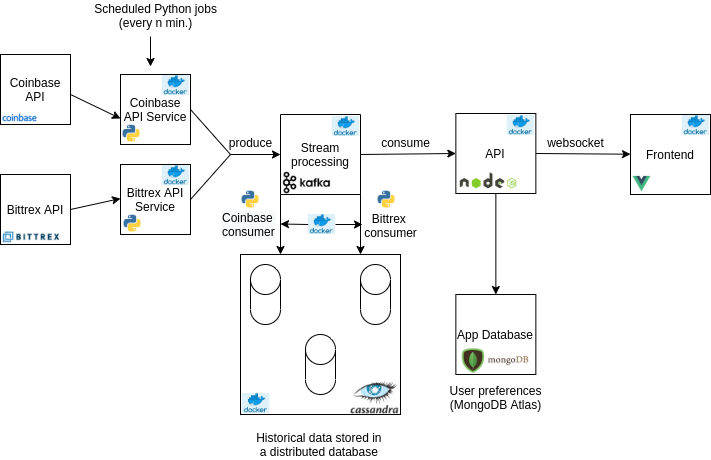
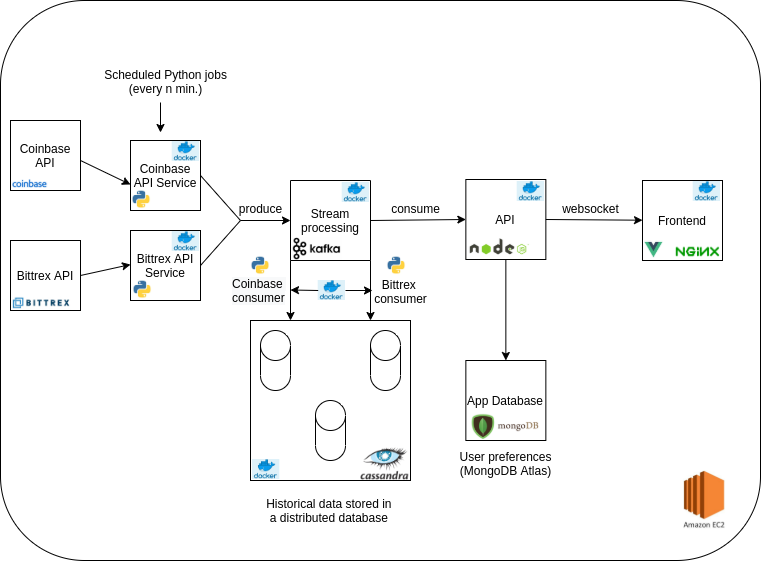
backend & frontend docker setup

diff --git a/backend/server.js b/backend/server.js
@@ -17,16 +17,7 @@ app.use(express.urlencoded({ extended: true }));
 
 let currencies = [];
 let exchanges = [];
-// let latestPrices = [];
-
-let latestPrices = [
-  {"exchange": "Coinbase", "btc_buy": 11800.70, "btc_sell": 11750.60, "eth_buy": 420.40, "eth_sell": 410.65},
-  {"exchange": "Bittrex", "btc_buy": 11770.90, "btc_sell": 11760.45, "eth_buy": 430.35, "eth_sell": 400.25}
-];
-
-function getRandomInt(max) {
-  return Math.floor(Math.random() * Math.floor(max));
-}
+let latestPrices = [];
 
 // TODO: Bind table names in queries
 const cassandraQueries = [
@@ -40,64 +31,59 @@ const cassandraQueries = [
   }
 ];
 
-// const cassandraClient = new cassandra.Client({
-//   contactPoints: [config.cassandraIp],
-//   localDataCenter: config.cassandraDataCenter,
-//   keyspace: config.cassandraKeyspace
-// });
+const cassandraClient = new cassandra.Client({
+  contactPoints: [config.cassandraIp],
+  localDataCenter: config.cassandraDataCenter,
+  keyspace: config.cassandraKeyspace
+});
 
-// MongoClient.connect(config.mongoDbConnectionString, {
-//   useUnifiedTopology: true }, 
-//   (err, client) => {
-//     if (err) return console.error(err);
-//     console.log('Connected to Mongo Database');
-//     const db = client.db(config.mongoDbName);
+MongoClient.connect(config.mongoDbConnectionString, {
+  useUnifiedTopology: true }, 
+  (err, client) => {
+    if (err) return console.error(err);
+    console.log('Connected to Mongo Database');
+    const db = client.db(config.mongoDbName);
 
-//     db.collection('exchanges').findOne()
-//     .then(exchangesResult => {
-//       console.log("Exchanges: " + exchangesResult.exchanges);
-//       exchanges = exchangesResult.exchanges;
-//     })
-//     .catch(error => console.error(error));
+    db.collection('exchanges').findOne()
+    .then(exchangesResult => {
+      console.log("Exchanges: " + exchangesResult.exchanges);
+      exchanges = exchangesResult.exchanges;
+    })
+    .catch(error => console.error(error));
 
-//     db.collection('currencies').findOne()
-//     .then(currenciesResult => {
-//       console.log("Currencies: " + currenciesResult.currencies);
-//       currencies = currenciesResult.currencies;
+    db.collection('currencies').findOne()
+    .then(currenciesResult => {
+      console.log("Currencies: " + currenciesResult.currencies);
+      currencies = currenciesResult.currencies;
 
-//       cassandraQueries.forEach(cassandraQuery => {
-//         let priceObj = {};
-//         //priceObj['exchange'] = cassandraQuery.table;
-//         currencies.forEach(_currency => {
-//           cassandraClient.execute(cassandraQuery.query, [_currency])
-//           .then(cassandraResult => {
-//             priceObj['exchange'] = cassandraQuery.table;
-//             priceObj[_currency + '_buy'] = cassandraResult['rows'][0]['buy_price'].toFixed(2); // Only one record
-//             priceObj[_currency + '_sell'] = cassandraResult['rows'][0]['sell_price'].toFixed(2); // Only one record
-//           }).catch(error => console.error(error)); 
-//         });
-//         latestPrices.push(priceObj);
-//       });
-//     })
-//     .catch(error => console.error(error));
-//   }
-// );
+      cassandraQueries.forEach(cassandraQuery => {
+        let priceObj = {};
+        currencies.forEach(_currency => {
+          cassandraClient.execute(cassandraQuery.query, [_currency])
+          .then(cassandraResult => {
+            priceObj['exchange'] = cassandraQuery.table;
+            priceObj[_currency + '_buy'] = cassandraResult['rows'][0]['buy_price'].toFixed(2); // Only one record
+            priceObj[_currency + '_sell'] = cassandraResult['rows'][0]['sell_price'].toFixed(2); // Only one record
+          }).catch(error => console.error(error)); 
+        });
+        latestPrices.push(priceObj);
+      });
+    })
+    .catch(error => console.error(error));
+  }
+);
 
-// let Consumer = kafka.Consumer;
-// kafkaClient = new kafka.KafkaClient(config.kafkaIp);
-// kafkaConsumer = new Consumer(
-//   kafkaClient,
-//   [ { topic: config.kafkaTopics[0], partitions: 0 }, { topic: config.kafkaTopics[1], partitions: 1 } ], 
-//   { autoCommit: false }
-// ); 
+let Consumer = kafka.Consumer;
+kafkaClient = new kafka.KafkaClient(config.kafkaIp);
+kafkaConsumer = new Consumer(
+  kafkaClient,
+  [ { topic: config.kafkaTopics[0], partitions: 0 }, { topic: config.kafkaTopics[1], partitions: 1 } ], 
+  { autoCommit: false }
+); 
 
 http.listen(config.port, () => {
   console.log('listening on *:' + config.port);
 });
-
-// app.get('/', (req, res) => {
-//   res.sendFile(__dirname + '/index.html');
-// });
 
 app.get('/metadata', (req, res) => {
   console.log('metadata called from frontend');
@@ -111,63 +97,19 @@ io.on("connection", socket => {
   });
   console.log('client connected');
 
-  let priceObj1 = {
-    "exchange": "Coinbase",
-    "btc_buy": 11699.95,
-    "btc_sell": 11678.25,
-    "eth_buy": 428.95,
-    "eth_sell": 415.43
-  }
+  kafkaConsumer.on('message', function (message) {
+    // console.log('Kafka message:' + JSON.stringify(message));
+    // console.log(message.topic);
+    // console.log(message['value'].currency_id);
 
-  let priceObj2 = {
-    "exchange": "Coinbase",
-    "btc_buy": 11900.29,
-    "btc_sell": 11875.15,
-    "eth_buy": 421.45,
-    "eth_sell": 403.47
-  }
+    messageObj = JSON.parse(message);
+    console.log(messageObj);
 
-  let priceObj3 = {
-    "exchange": "Bittrex",
-    "btc_buy": 11719.37,
-    "btc_sell": 11698.59,
-    "eth_buy": 427.41,
-    "eth_sell": 412.67
-  }
+    let priceObj = {};
+    priceObj['exchange'] = message['topic'];
+    priceObj[message.currency_id + '_buy'] = message['value']['buy_price'].toFixed(2);
+    priceObj[message.currency_id + '_sell'] = message['value']['sell_price'].toFixed(2);
 
-  let priceObj4 = {
-    "exchange": "Bittrex",
-    "btc_buy": 11999.38,
-    "btc_sell": 11900.99,
-    "eth_buy": 473.44,
-    "eth_sell": 469.83
-  }
-
-  let randomArray = [priceObj1, priceObj2, priceObj3, priceObj4];
-
-  setInterval(function() {
-    let rand_int = getRandomInt(4);
-    socket.broadcast.emit("newdata", randomArray[rand_int]);
-  }, 10000);
-
-  // kafkaConsumer.on('message', function (message) {
-  //   // console.log('Kafka message:' + JSON.stringify(message));
-  //   // console.log(message.topic);
-  //   // console.log(message['value'].currency_id);
-
-  //   messageObj = JSON.parse(message);
-  //   console.log(messageObj);
-
-  //   // let priceObj = {};
-  //   // priceObj['exchange'] = message['topic'];
-  //   // priceObj[message.currency_id + '_buy'] = message['value']['buy_price'].toFixed(2);
-  //   // priceObj[message.currency_id + '_sell'] = message['value']['sell_price'].toFixed(2);
-
-  //   // const exchangeIndex = latestPrices.map(e => e.exchange).indexOf(message.topic);
-
-  //   // if(!utils.objectsEqual(latestPrices[exchangeIndex], priceObj)) { // Only update and send to frontend if there is a change in prices
-  //   //   socket.broadcast.emit("newdata", priceObj);
-  //   //   latestPrices[exchangeIndex] = priceObj;
-  //   // }
-  // });
+    socket.broadcast.emit("newdata", priceObj);
+  });
 });
